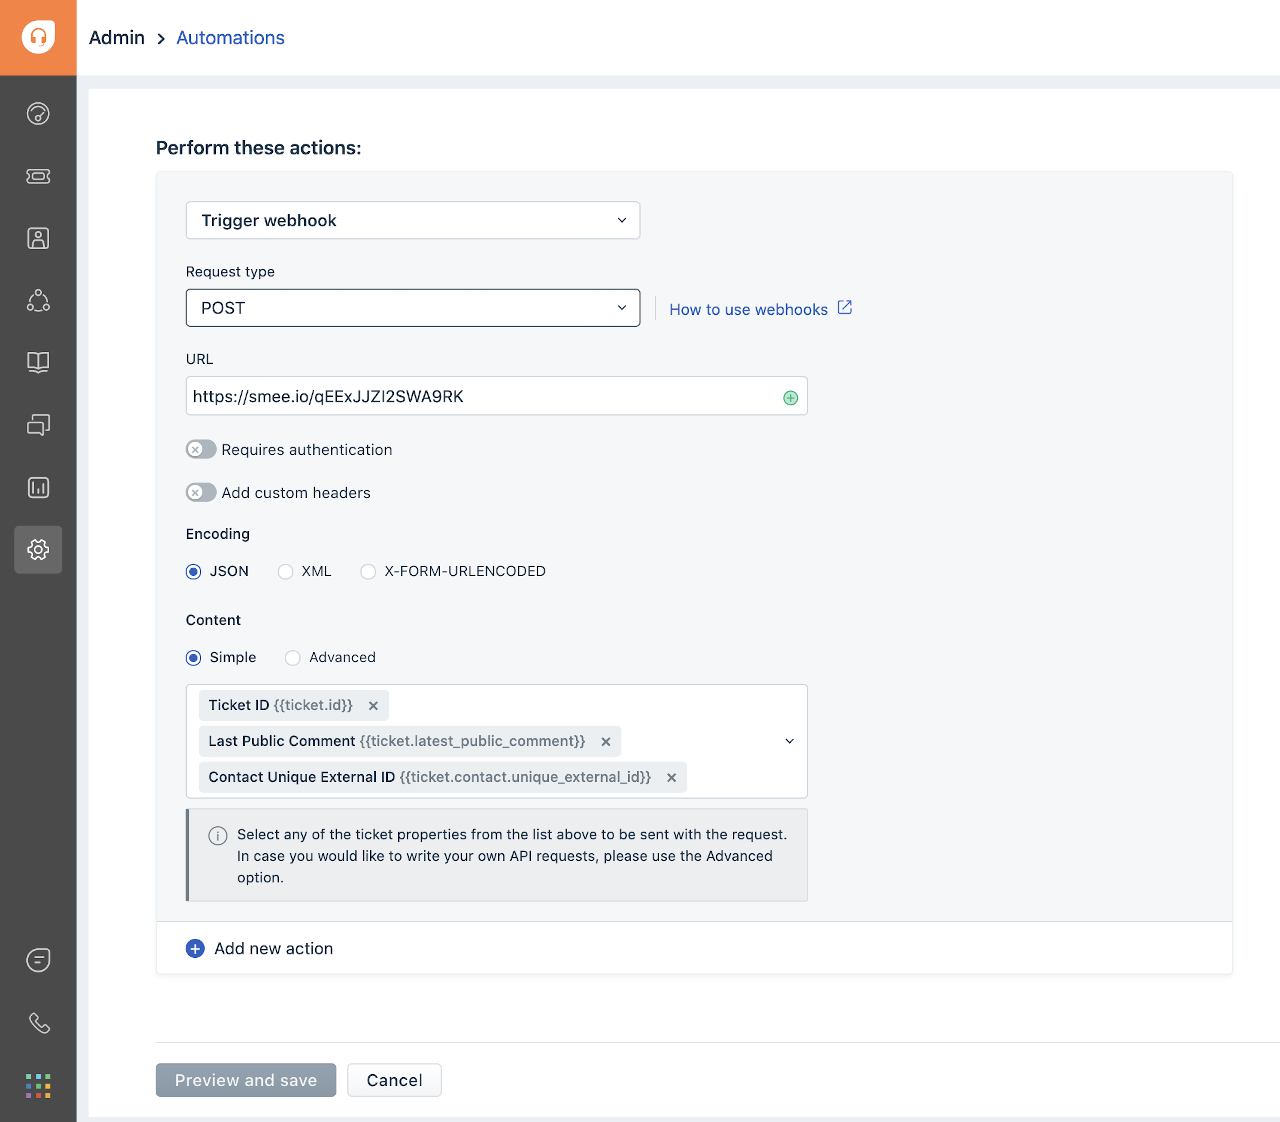
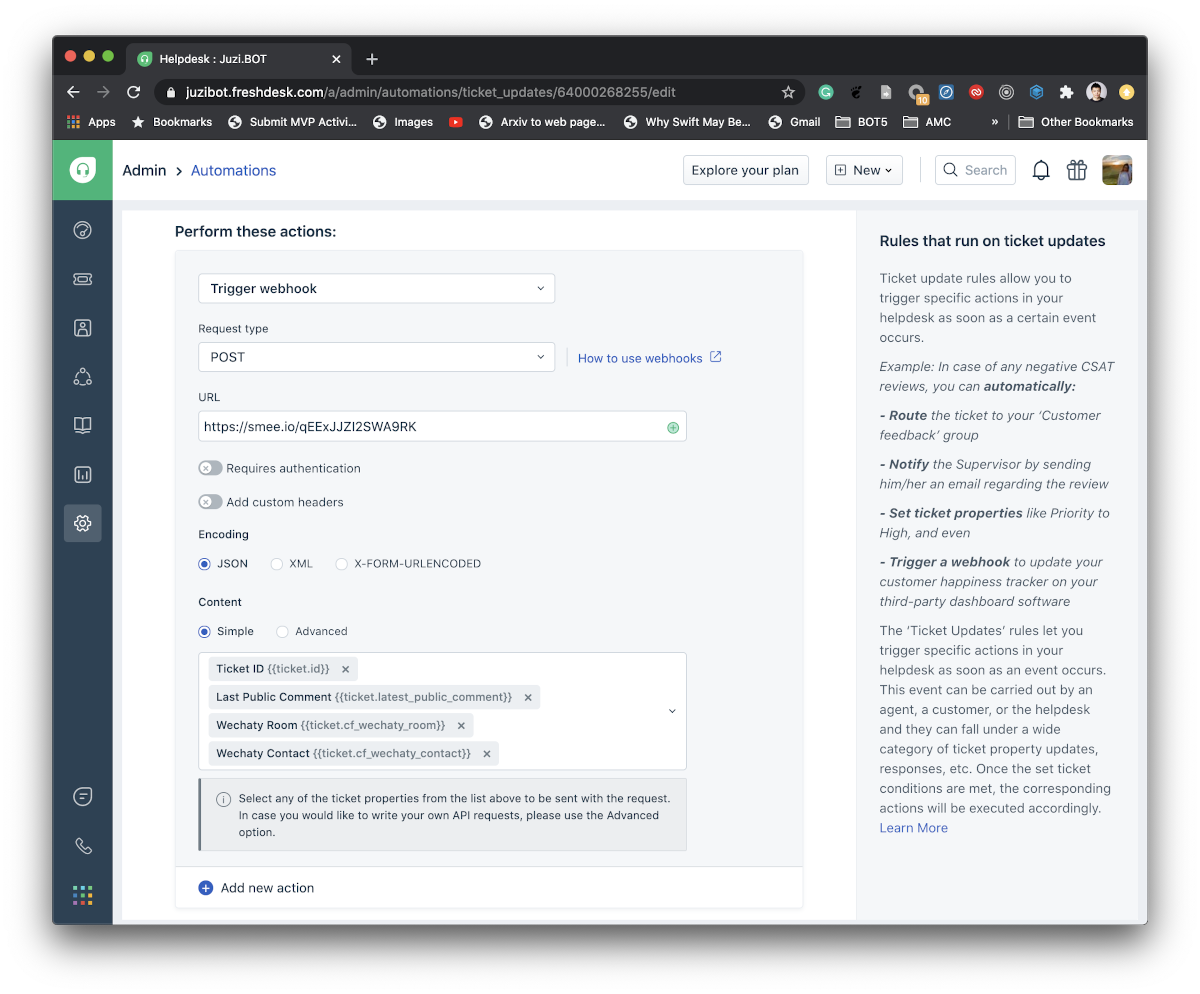
update new settings for freshdesk

diff --git a/README.md b/README.md
@@ -20,10 +20,10 @@ Wechaty Freshdesk Plugin helps you to manage your customers/leads/users in the W
 ## Requirements
 
 1. Wechaty v0.40+
-1. Freshdesk Garden+ Plan
+1. Freshdesk Garden+ Plan (for [Assuming identities](https://support.freshdesk.com/support/solutions/articles/224634-assuming-identities) support)
 1. Freshdesk config
-    1. Create two custom ticket fields named `Wechaty Room` and `Wechaty Contact` with type `string`. See: [Creating custom fields in your ticket form](https://support.freshdesk.com/support/solutions/articles/37596-creating-custom-fields-in-your-ticket-form)
-    1. Create Webhook (see below)
+    1. Create two custom ticket fields (see [below]())
+    1. Create Webhook (see [below()])
 
 ## Usage
 
@@ -56,14 +56,30 @@ wechaty.use(FreshdeskPlugin)
 
 ## Configure Freshdesk Webhooks
 
-In order to receive the reply and close events from Freshdesk, we need to configure webhooks from the Freshdesk platform.
+In order to receive the reply and close events from Freshdesk, we need to configure the Freshdesk platform:
 
-### 1 Go to Automation Setting Page
+1. Add two custom ticket fields
+1. Add a automation rule for Webhook
+
+> Note: Freshdesk Garden Plan (or above) is required, because we need [Assuming identities](https://support.freshdesk.com/support/solutions/articles/224634-assuming-identities) feature.
+
+### 1 Add Two Custom Ticket Field
+
+1. Login to your Freshdesk agent account, from the menu on the left, select `Admin`, then select `Ticket Fields` under the `General Settings`.
+1. Create two `Single-line text` fields:
+    1. `Wechaty Room`
+    1. `Wechaty Contact`
+
+![Freshdesk Ticket Fields](docs/images/freshdesk-ticket-fields.png)
+
+Doc: [Creating custom fields in your ticket form](https://support.freshdesk.com/support/solutions/articles/37596-creating-custom-fields-in-your-ticket-form)
+
+### 2 Go to Automation Setting Page
 
 1. Login to your Freshdesk agent account, from the menu on the left, select `Admin`, then select `Automations`.
 1. Below the `Rules that run on`, there will be three selections: `Ticket Creation`, `Time Triggers`, and `Ticket Updates`.
 
-### 2 Create a `Ticket Updates` Rule
+### 3 Create a `Ticket Updates` Rule
 
 ![Freshdesk Automation Rule](docs/images/freshdesk-automations-rule.png)
 
@@ -82,7 +98,8 @@ And make sure you have configured the Webhook Content as the following:
 
 1. `Ticket ID {{ticket.id}}`
 1. `Last Public Comment {{ticket.latest_public_comment}}`
-1. `Contact Unique External ID {{ticket.contact.unique_external_id}}`
+1. `Wechaty Room {{ticket.cf_wechaty_room}}`
+1. `Wechaty Contact {{ticket.cf_wechaty_contact}}`
 
 Then click `Preview and save`.
 
